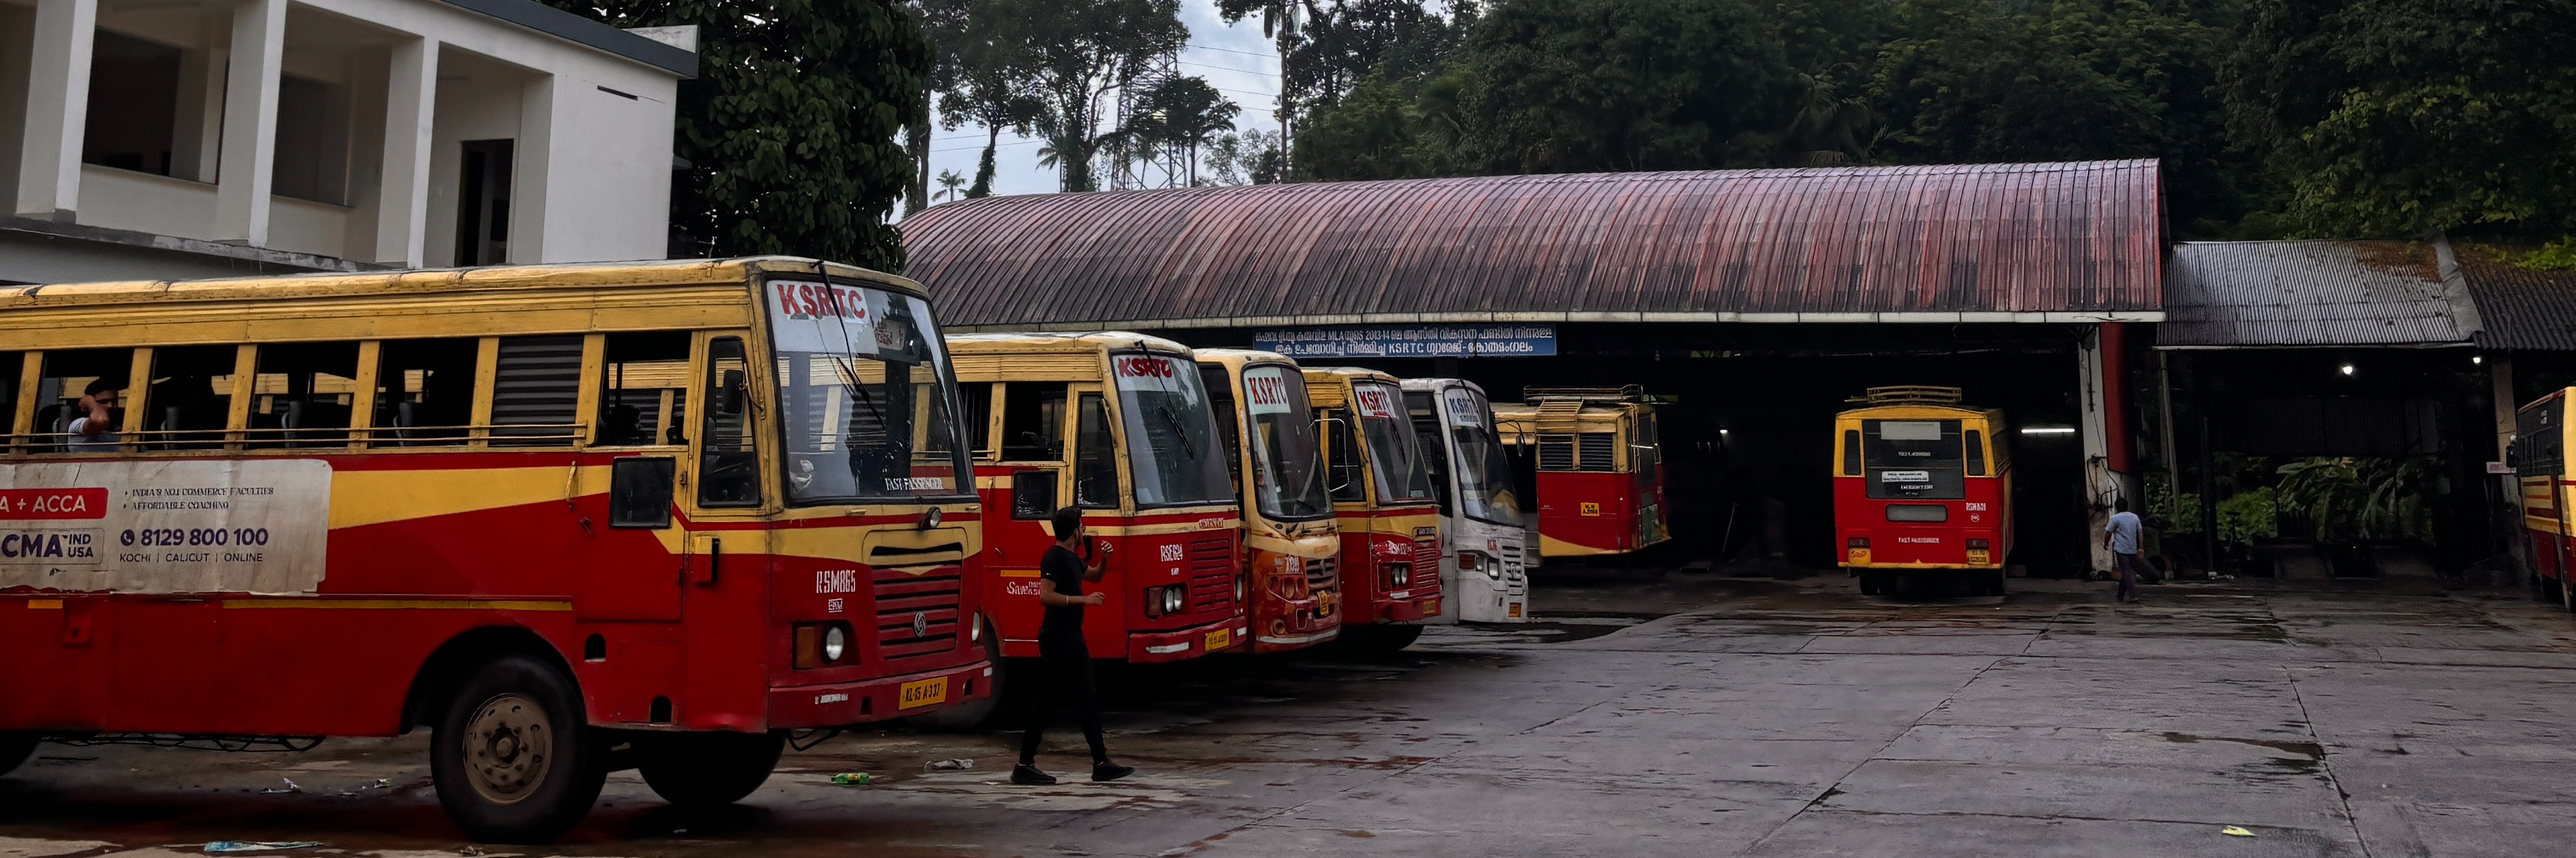
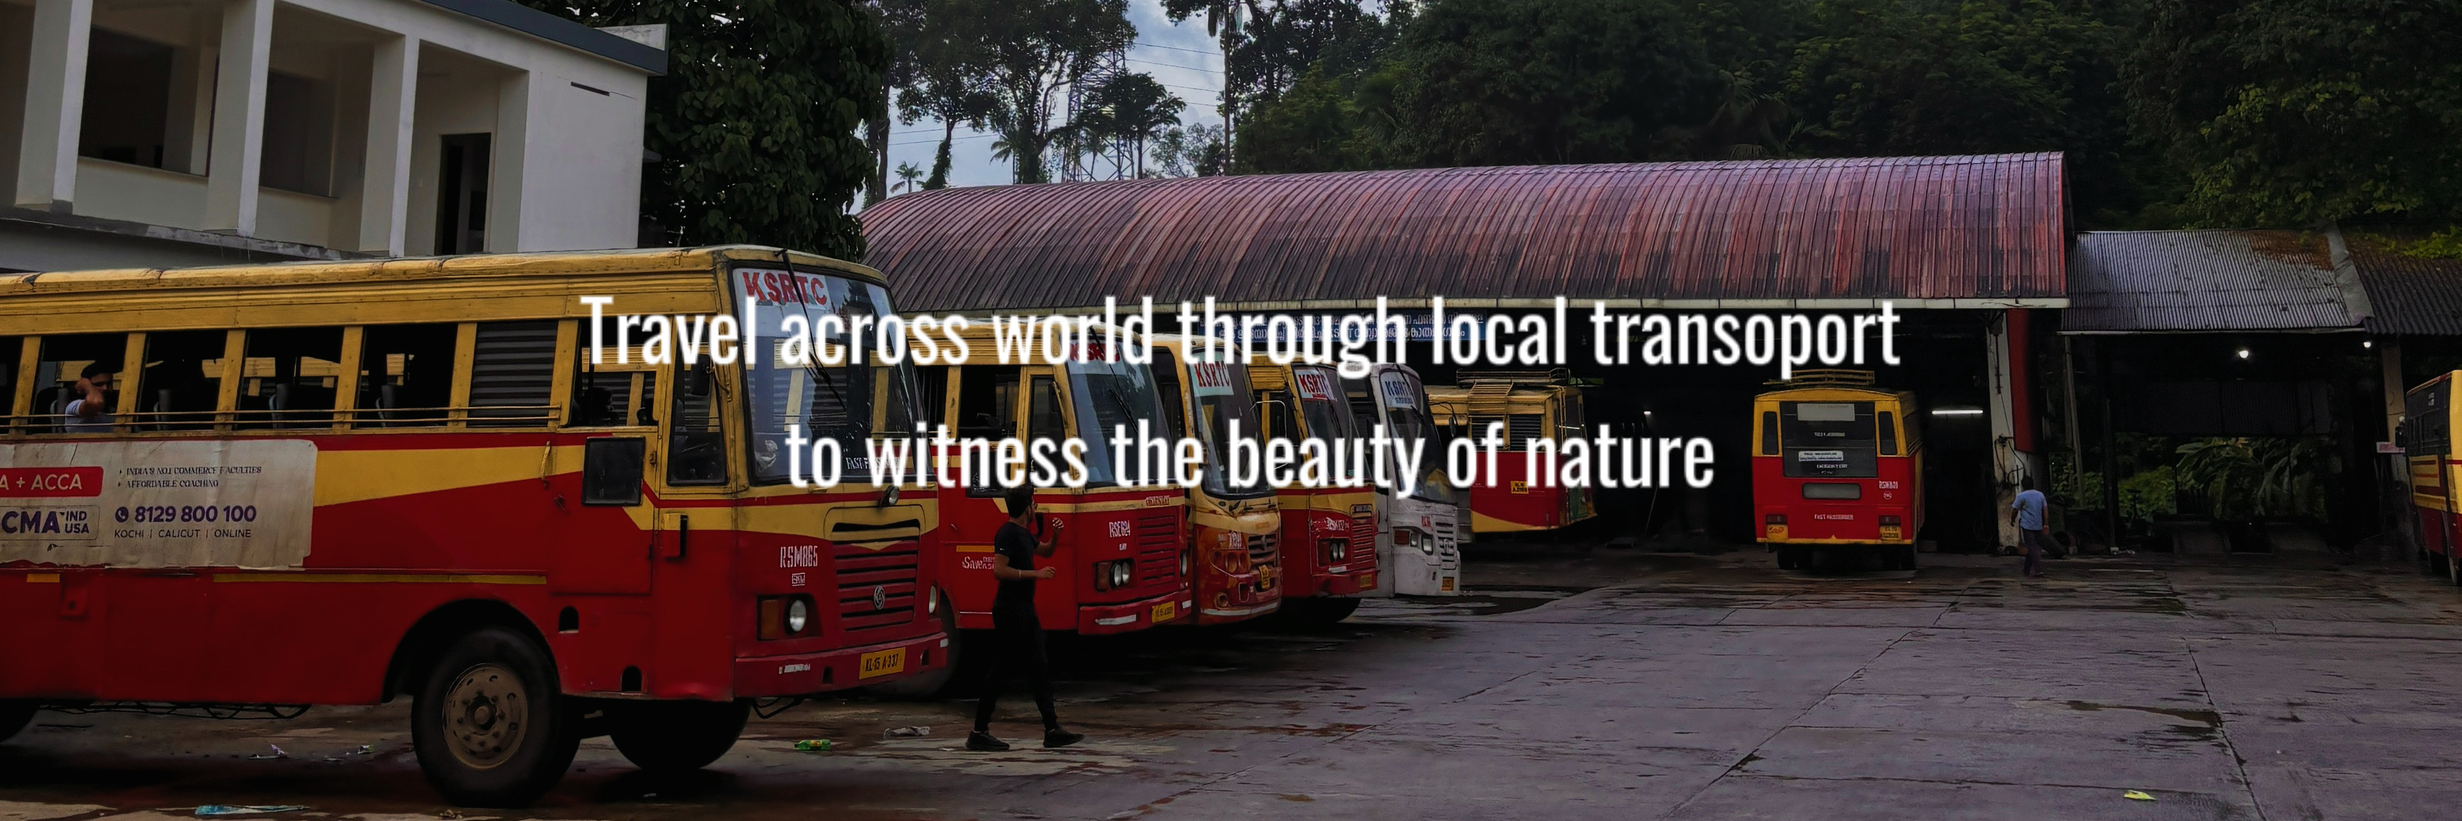
Images adding

diff --git a/frontend/app/page.tsx b/frontend/app/page.tsx
@@ -17,7 +17,7 @@ export default function Home() {
   const sliderImages = [
     "/images/budget_travel_planning.jpg",
     "/images/travel-adventures-bg.jpg",
-    "/images/backgroundimage.jpg",
+    "/images/quotesimages.JPG",
   ]
 
   useEffect(() => {
